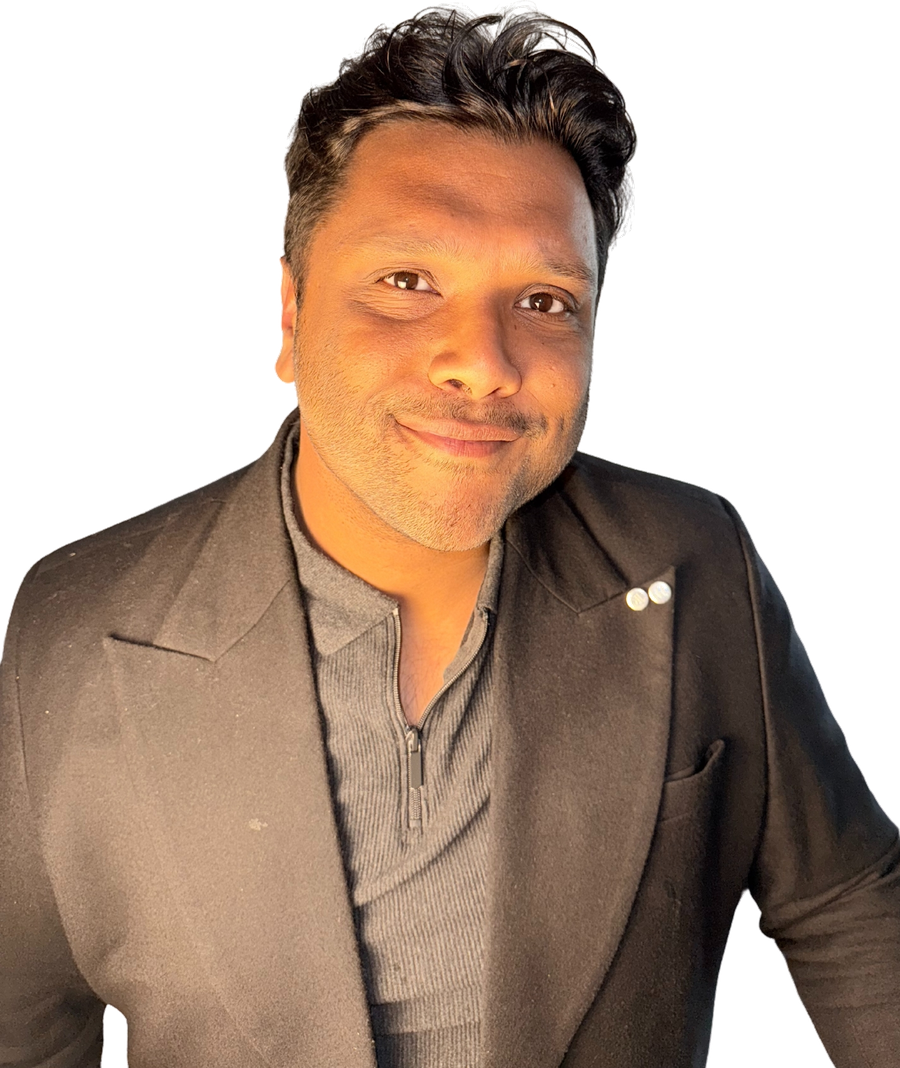
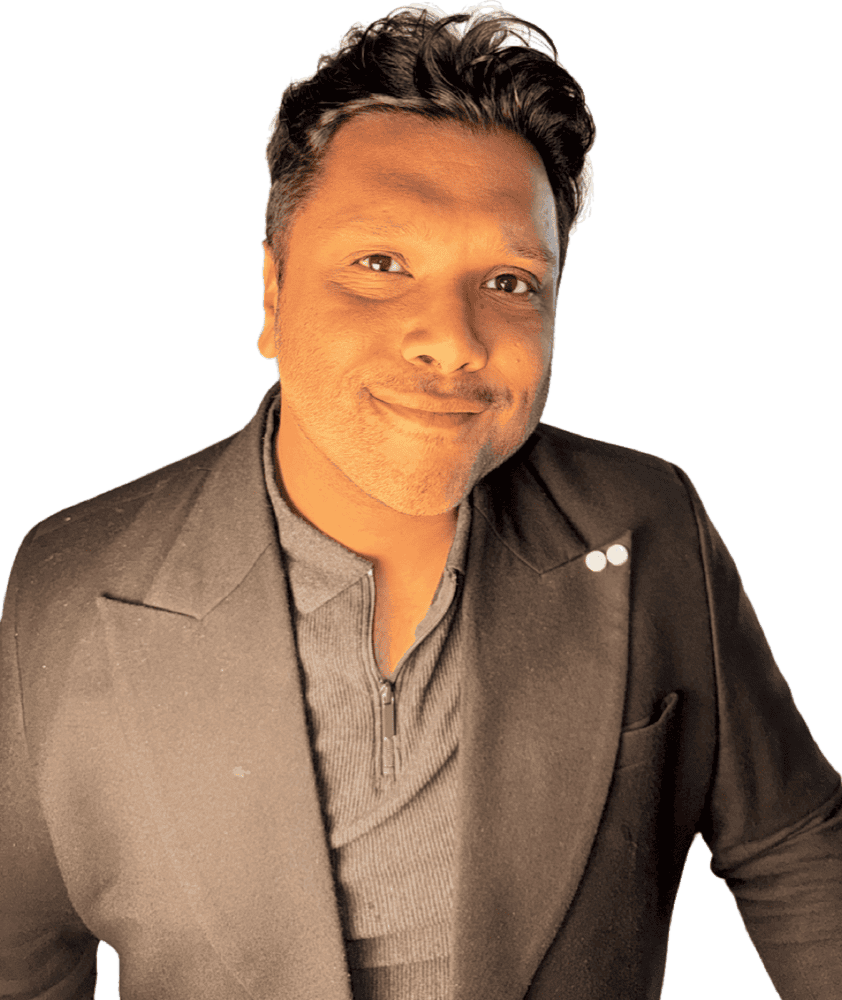
SEO fixes: shorten meta title/description + compress 25 images
- Meta title: 66 → 56 chars (under Google's 60 limit)
- Meta description: 162 → 145 chars (under 160 limit)
- hayat-hero.png: 1.16MB → 216KB
- hayat-nyc.jpg: 254KB → 100KB
- hayat-bw.jpg: 163KB → 67KB
- 22 blog hero JPGs: -5.7MB total
- Android/Apple icons: -270KB combined

diff --git a/app/layout.tsx b/app/layout.tsx
@@ -12,11 +12,11 @@ export const metadata: Metadata = {
  metadataBase: new URL(SITE_URL),
  title: {
  default:
- "Hayat Amin — Fractional CFO, IP Strategist, AI Operator | 3 Exits",
+ "Hayat Amin — Fractional CFO, IP Strategist & AI Operator",
  template: "%s | Hayat Amin",
  },
  description:
- "Battle-tested CFO. 3 exits (American Express, TripAdvisor) and 3 FT100 listings. Fractional CFO, IP & data strategist, AI agent operator. NYC · London · Dubai.",
+ "Battle-tested CFO with 3 exits (Amex, TripAdvisor) and 3 FT100 listings. Fractional CFO, IP strategist & AI agent operator. NYC · London · Dubai.",
  applicationName: "Hayat Amin · Operator",
  authors: [{ name: "Hayat Amin", url: SITE_URL }],
  creator: "Hayat Amin",
